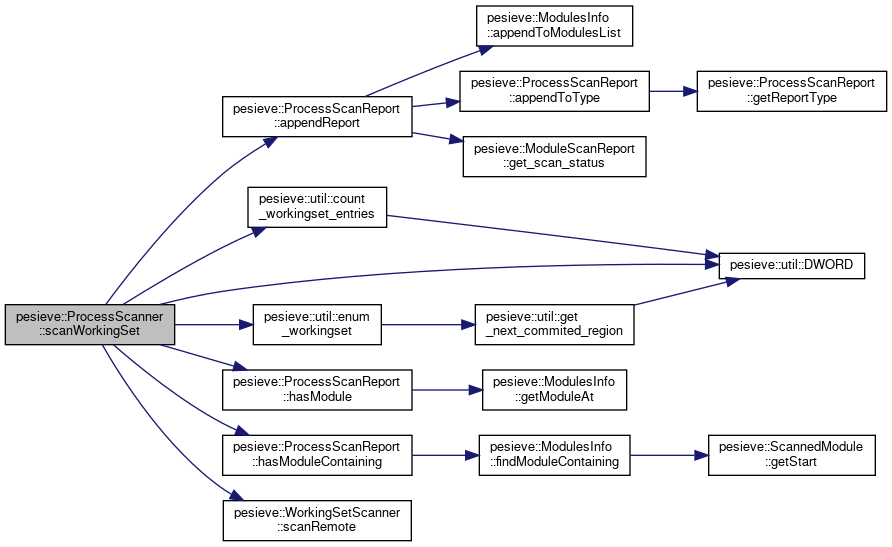
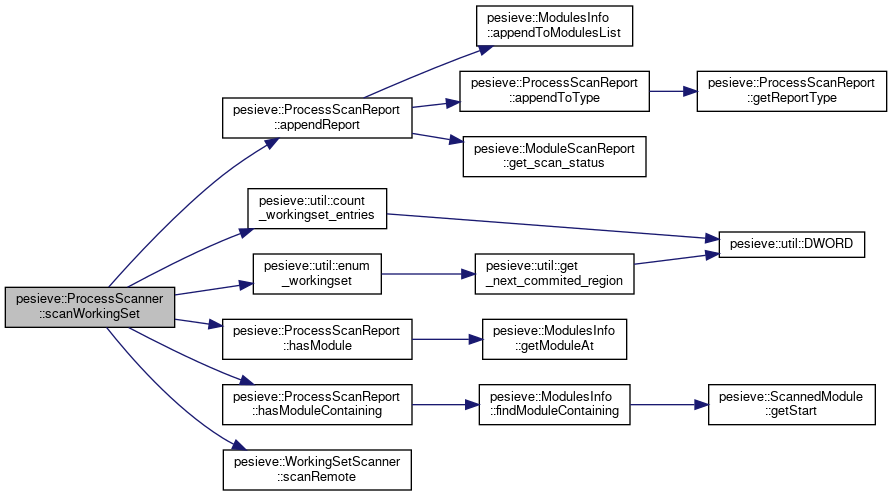
deploy: cd5fc03d5352705be79c4d2a77d702586aa1516a

diff --git a/scanner_8cpp_source.html b/scanner_8cpp_source.html
@@ -282,7 +282,7 @@ $(function() {
 <div class="line"><a id="l00209" name="l00209"></a><span class="lineno">  209</span>        <span class="keywordflow">throw</span> std::runtime_error(<span class="stringliteral">&quot;Could not query the working set. &quot;</span>);</div>
 <div class="line"><a id="l00210" name="l00210"></a><span class="lineno">  210</span>        <span class="keywordflow">return</span> 0;</div>
 <div class="line"><a id="l00211" name="l00211"></a><span class="lineno">  211</span>    }</div>
-<div class="line"><a id="l00212" name="l00212"></a><span class="lineno">  212</span>    <a class="code hl_function" href="namespacepesieve_1_1util.html#ac533b9c8a18228f62223a0042c40f5ae">DWORD</a> start_tick = GetTickCount();</div>
+<div class="line"><a id="l00212" name="l00212"></a><span class="lineno">  212</span>    ULONGLONG start_tick = GetTickCount64();</div>
 <div class="line"><a id="l00213" name="l00213"></a><span class="lineno">  213</span>    std::set&lt;ULONGLONG&gt; region_bases;</div>
 <div class="line"><a id="l00214" name="l00214"></a><span class="lineno">  214</span>    <span class="keywordtype">size_t</span> pages_count = <a class="code hl_function" href="namespacepesieve_1_1util.html#a9658166c62196dd00f2041c0a821b2aa">util::enum_workingset</a>(processHandle, region_bases);</div>
 <div class="line"><a id="l00215" name="l00215"></a><span class="lineno">  215</span>    <span class="keywordflow">if</span> (!args.quiet) {</div>
@@ -316,7 +316,7 @@ $(function() {
 <div class="line"><a id="l00243" name="l00243"></a><span class="lineno">  243</span>        pReport.<a class="code hl_function" href="classpesieve_1_1_process_scan_report.html#a3c0957c36cf674677e5b6610db8703ea">appendReport</a>(my_report);</div>
 <div class="line"><a id="l00244" name="l00244"></a><span class="lineno">  244</span>    }</div>
 <div class="line"><a id="l00245" name="l00245"></a><span class="lineno">  245</span>    <span class="keywordflow">if</span> (!args.quiet) {</div>
-<div class="line"><a id="l00246" name="l00246"></a><span class="lineno">  246</span>        <a class="code hl_function" href="namespacepesieve_1_1util.html#ac533b9c8a18228f62223a0042c40f5ae">DWORD</a> total_time = GetTickCount() - start_tick;</div>
+<div class="line"><a id="l00246" name="l00246"></a><span class="lineno">  246</span>        ULONGLONG total_time = GetTickCount64() - start_tick;</div>
 <div class="line"><a id="l00247" name="l00247"></a><span class="lineno">  247</span>        std::cout &lt;&lt; <span class="stringliteral">&quot;[*] Workingset scanned in &quot;</span> &lt;&lt; std::dec &lt;&lt; total_time &lt;&lt; <span class="stringliteral">&quot; ms&quot;</span> &lt;&lt; std::endl;</div>
 <div class="line"><a id="l00248" name="l00248"></a><span class="lineno">  248</span>    }</div>
 <div class="line"><a id="l00249" name="l00249"></a><span class="lineno">  249</span>    <span class="keywordflow">return</span> counter;</div>
@@ -541,7 +541,6 @@ $(function() {
 <div class="ttc" id="anamespacepesieve_1_1util_html_a79abe45c817b882898d257ae476f8339"><div class="ttname"><a href="namespacepesieve_1_1util.html#a79abe45c817b882898d257ae476f8339">pesieve::util::device_path_to_win32_path</a></div><div class="ttdeci">std::string device_path_to_win32_path(const std::string &amp;full_path)</div><div class="ttdef"><b>Definition:</b> <a href="path__converter_8cpp_source.html#l00228">path_converter.cpp:228</a></div></div>
 <div class="ttc" id="anamespacepesieve_1_1util_html_a9658166c62196dd00f2041c0a821b2aa"><div class="ttname"><a href="namespacepesieve_1_1util.html#a9658166c62196dd00f2041c0a821b2aa">pesieve::util::enum_workingset</a></div><div class="ttdeci">size_t enum_workingset(HANDLE processHandle, std::set&lt; ULONGLONG &gt; &amp;region_bases)</div><div class="ttdef"><b>Definition:</b> <a href="workingset__enum_8cpp_source.html#l00064">workingset_enum.cpp:64</a></div></div>
 <div class="ttc" id="anamespacepesieve_1_1util_html_aa85f1f0a0e6bca89adf99decf129714c"><div class="ttname"><a href="namespacepesieve_1_1util.html#aa85f1f0a0e6bca89adf99decf129714c">pesieve::util::BOOL</a></div><div class="ttdeci">BOOL(CALLBACK *_MiniDumpWriteDump)(HANDLE hProcess</div></div>
-<div class="ttc" id="anamespacepesieve_1_1util_html_ac533b9c8a18228f62223a0042c40f5ae"><div class="ttname"><a href="namespacepesieve_1_1util.html#ac533b9c8a18228f62223a0042c40f5ae">pesieve::util::DWORD</a></div><div class="ttdeci">DWORD(__stdcall *_PssCaptureSnapshot)(HANDLE ProcessHandle</div></div>
 <div class="ttc" id="anamespacepesieve_html"><div class="ttname"><a href="namespacepesieve.html">pesieve</a></div><div class="ttdef"><b>Definition:</b> <a href="color__scheme_8h_source.html#l00003">color_scheme.h:3</a></div></div>
 <div class="ttc" id="anamespacepesieve_html_a458a4723ce4aa55fd1033f3e36381883a16ceb9869161945d59ad00ce88bd8000"><div class="ttname"><a href="namespacepesieve.html#a458a4723ce4aa55fd1033f3e36381883a16ceb9869161945d59ad00ce88bd8000">pesieve::SCAN_NOT_SUSPICIOUS</a></div><div class="ttdeci">@ SCAN_NOT_SUSPICIOUS</div><div class="ttdef"><b>Definition:</b> <a href="module__scan__report_8h_source.html#l00020">module_scan_report.h:20</a></div></div>
 <div class="ttc" id="anamespacepesieve_html_a458a4723ce4aa55fd1033f3e36381883a7d8673b01da918587ac8390c2efc6a6a"><div class="ttname"><a href="namespacepesieve.html#a458a4723ce4aa55fd1033f3e36381883a7d8673b01da918587ac8390c2efc6a6a">pesieve::SCAN_ERROR</a></div><div class="ttdeci">@ SCAN_ERROR</div><div class="ttdef"><b>Definition:</b> <a href="module__scan__report_8h_source.html#l00019">module_scan_report.h:19</a></div></div>

diff --git a/classpesieve_1_1_process_scanner.html b/classpesieve_1_1_process_scanner.html
@@ -774,22 +774,22 @@ Here is the call graph for this function:</div>
 <div class="dyncontent">
 <div class="center"><img src="classpesieve_1_1_process_scanner_a2058c6be1e628a7a46a1a5dd989c49ad_cgraph.png" border="0" usemap="#aclasspesieve_1_1_process_scanner_a2058c6be1e628a7a46a1a5dd989c49ad_cgraph" alt=""/></div>
 <map name="aclasspesieve_1_1_process_scanner_a2058c6be1e628a7a46a1a5dd989c49ad_cgraph" id="aclasspesieve_1_1_process_scanner_a2058c6be1e628a7a46a1a5dd989c49ad_cgraph">
-<area shape="rect" title=" " alt="" coords="5,304,175,345"/>
-<area shape="rect" href="classpesieve_1_1_process_scan_report.html#a3c0957c36cf674677e5b6610db8703ea" title=" " alt="" coords="223,96,412,137"/>
-<area shape="rect" href="namespacepesieve_1_1util.html#a539f415709cc4ca711a41118bed18c1f" title=" " alt="" coords="248,187,387,228"/>
-<area shape="rect" href="namespacepesieve_1_1util.html#ac533b9c8a18228f62223a0042c40f5ae" title=" " alt="" coords="719,253,865,279"/>
-<area shape="rect" href="namespacepesieve_1_1util.html#a9658166c62196dd00f2041c0a821b2aa" title=" " alt="" coords="253,304,381,345"/>
-<area shape="rect" href="classpesieve_1_1_process_scan_report.html#aa8f38d2fdf0ebf4f5b0131d74d03565e" title=" " alt="" coords="223,369,412,411"/>
-<area shape="rect" href="classpesieve_1_1_process_scan_report.html#ab694abcdd016d6f073b0f3488a197cb8" title=" " alt="" coords="223,435,412,476"/>
-<area shape="rect" href="classpesieve_1_1_working_set_scanner.html#adde1b7a7fa726861fcea3669d12202d2" title=" " alt="" coords="223,500,411,541"/>
+<area shape="rect" title=" " alt="" coords="5,287,175,328"/>
+<area shape="rect" href="classpesieve_1_1_process_scan_report.html#a3c0957c36cf674677e5b6610db8703ea" title=" " alt="" coords="223,97,412,139"/>
+<area shape="rect" href="namespacepesieve_1_1util.html#a539f415709cc4ca711a41118bed18c1f" title=" " alt="" coords="248,188,387,229"/>
+<area shape="rect" href="namespacepesieve_1_1util.html#a9658166c62196dd00f2041c0a821b2aa" title=" " alt="" coords="253,253,381,295"/>
+<area shape="rect" href="classpesieve_1_1_process_scan_report.html#aa8f38d2fdf0ebf4f5b0131d74d03565e" title=" " alt="" coords="223,319,412,360"/>
+<area shape="rect" href="classpesieve_1_1_process_scan_report.html#ab694abcdd016d6f073b0f3488a197cb8" title=" " alt="" coords="223,384,412,425"/>
+<area shape="rect" href="classpesieve_1_1_working_set_scanner.html#adde1b7a7fa726861fcea3669d12202d2" title=" " alt="" coords="223,449,411,491"/>
 <area shape="rect" href="classpesieve_1_1_modules_info.html#aadb41407ab2be96844c8a7fbd13151c0" title=" " alt="" coords="477,5,633,47"/>
 <area shape="rect" href="classpesieve_1_1_process_scan_report.html#ac3cd73b44ba0c30368cdadf25746b55f" title=" " alt="" coords="460,71,649,112"/>
 <area shape="rect" href="classpesieve_1_1_module_scan_report.html#a56c33c5d0e75abfa8edf5e4e3c3b2e63" title=" " alt="" coords="463,136,646,177"/>
 <area shape="rect" href="classpesieve_1_1_process_scan_report.html#aac59d32a60ad030d364e13f0d132c8d6" title=" " alt="" coords="697,71,887,112"/>
-<area shape="rect" href="namespacepesieve_1_1util.html#a7b470a0106a3ad9352e64d1295bd9870" title=" " alt="" coords="475,304,634,345"/>
-<area shape="rect" href="classpesieve_1_1_modules_info.html#afc43d63a1a592d08d0115b92bff40e55" title=" " alt="" coords="483,369,627,411"/>
-<area shape="rect" href="classpesieve_1_1_modules_info.html#a15b3653af8bb2e2f86991103ab3b9f9e" title=" " alt="" coords="479,435,630,476"/>
-<area shape="rect" href="classpesieve_1_1_scanned_module.html#a13ffedd20fa028dd82fd7db6a6661fef" title=" " alt="" coords="709,435,875,476"/>
+<area shape="rect" href="namespacepesieve_1_1util.html#ac533b9c8a18228f62223a0042c40f5ae" title=" " alt="" coords="719,231,865,258"/>
+<area shape="rect" href="namespacepesieve_1_1util.html#a7b470a0106a3ad9352e64d1295bd9870" title=" " alt="" coords="475,253,634,295"/>
+<area shape="rect" href="classpesieve_1_1_modules_info.html#afc43d63a1a592d08d0115b92bff40e55" title=" " alt="" coords="483,319,627,360"/>
+<area shape="rect" href="classpesieve_1_1_modules_info.html#a15b3653af8bb2e2f86991103ab3b9f9e" title=" " alt="" coords="479,384,630,425"/>
+<area shape="rect" href="classpesieve_1_1_scanned_module.html#a13ffedd20fa028dd82fd7db6a6661fef" title=" " alt="" coords="709,384,875,425"/>
 </map>
 </div>
 
